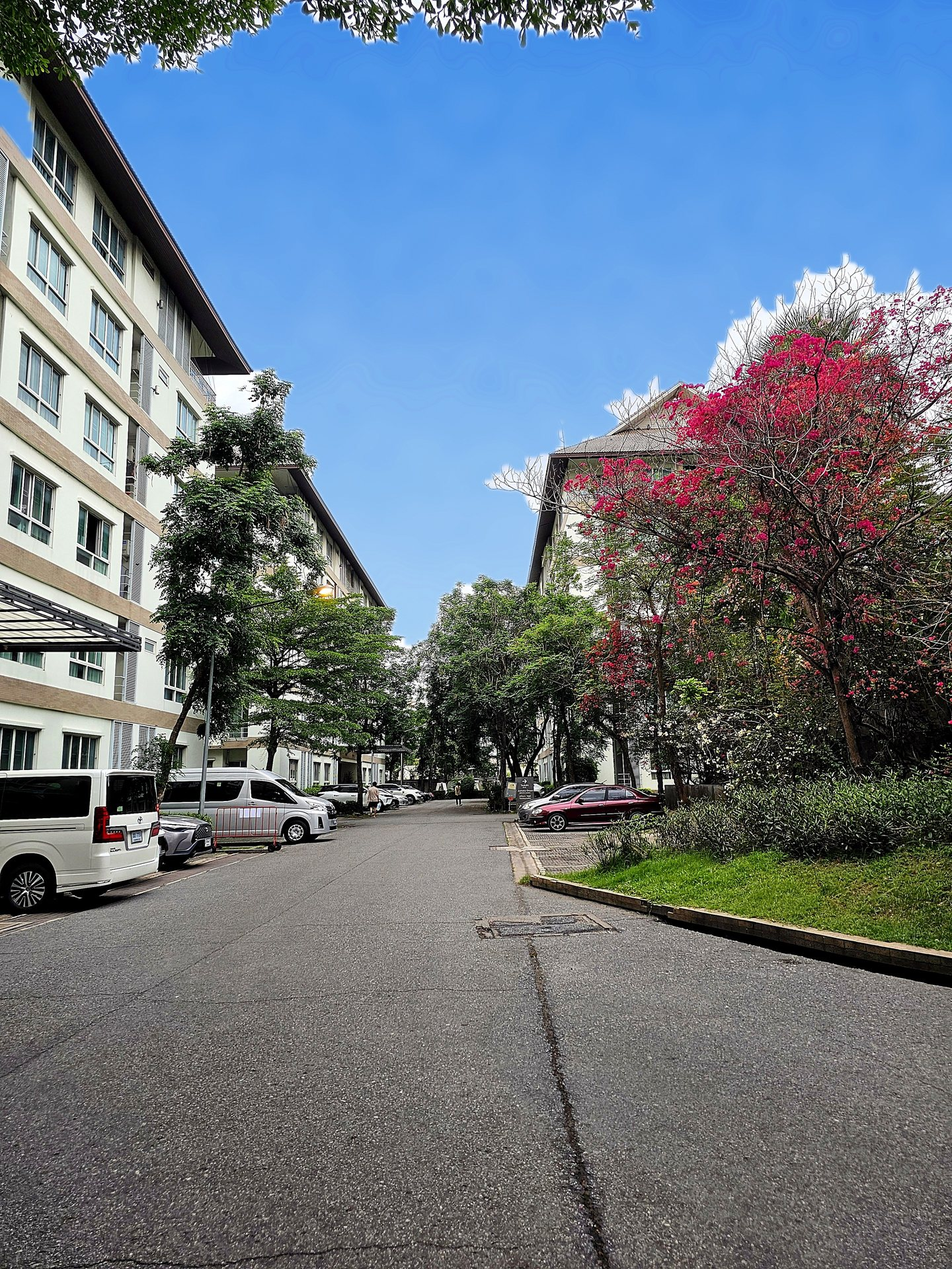
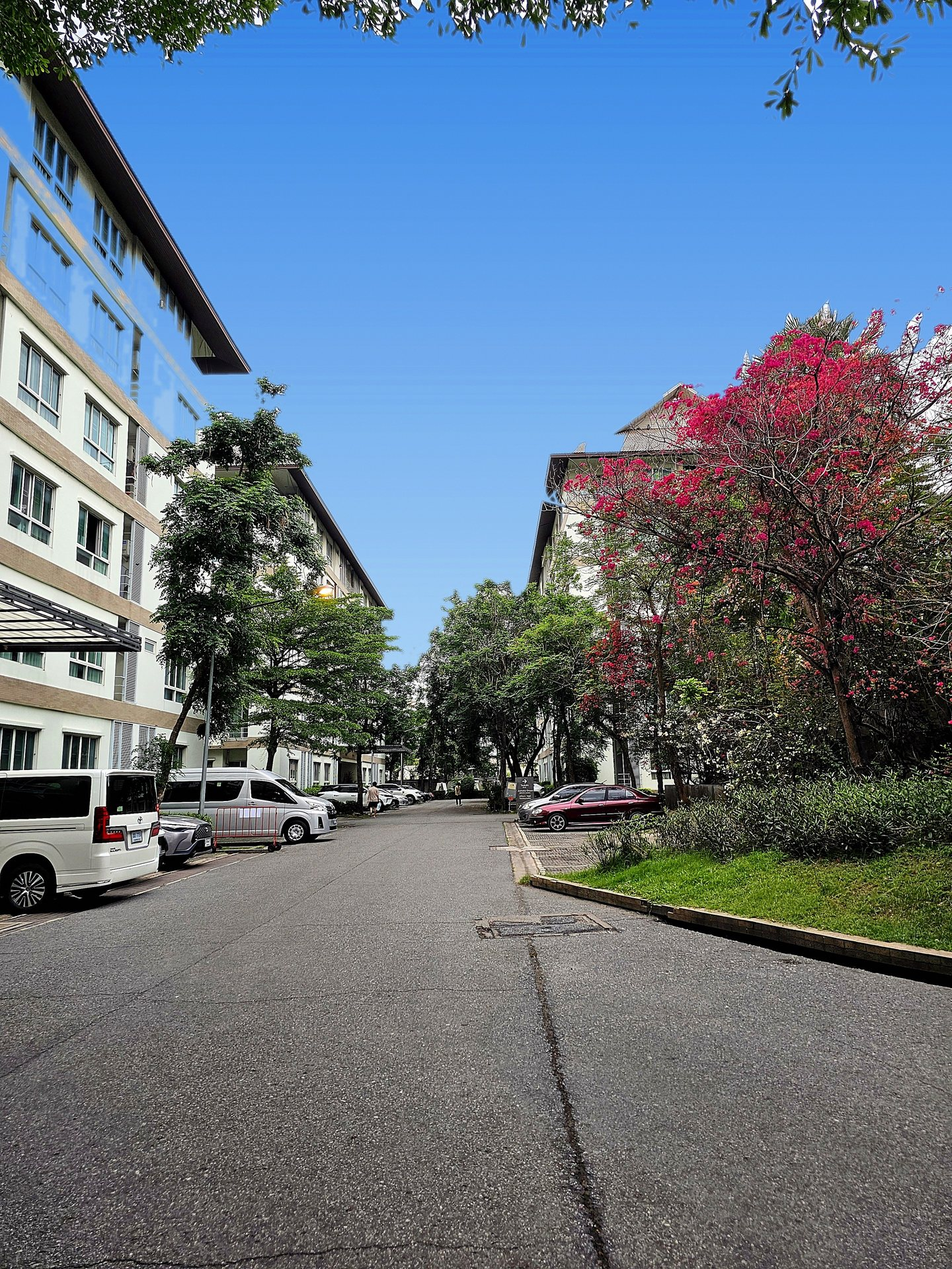
Lobby sky: dissolve the white fringe around trees for a real clear sky
The previous pass left a bright overcast rim glowing around the leaves and
twigs in the two tree exteriors — the tell-tale "fake sky" edge. Rework the
masking in enhance_sky.py to a continuous, luminance-based sky alpha:

  * a clean texture-gated CORE finds confident open sky (bright, washed-out,
    not-warm, not-green, smooth), keeping top-connected, high-in-frame and any
    large blob (so lower sky pockets aren't missed);
  * a connected EXTENSION crawls out from the core only through pixels that are
    plausibly sky, so canopy gaps reached through thin sky channels fill in
    while enclosed regions never do;
  * each edge pixel gets a soft skyness from how bright / desaturated / neutral
    / not-green it is, so a white halo turns fully blue, a half-leaf edge blends
    and a dark branch stays — the fringe dissolves and trees blend naturally;
  * drop the cloud veil (it quantised into contour lines) for a clean gradient,
    and dither before JPEG so the smooth blue never bands.

Scope the script to the two tree shots (20260607_174349, _174418) and re-run +
re-optimise them (1920px progressive JPEG). 20260609_175332 is a building
close-up whose glass mirrors the sky — any sky fill paints the windows — so it
keeps the earlier conservative pass's clean result and is left untouched.

diff --git a/enhance_sky.py b/enhance_sky.py
@@ -2,32 +2,34 @@
 Sky beautifier for selected Main Lobby photos.
 
 Turns the flat, overcast white-grey sky into a clean, clear blue gradient
-while leaving buildings, trees and foreground untouched.
+while leaving buildings, trees and foreground looking real.
 
-How the sky is found (so we don't paint over cream walls or green leaves):
-  * bright            -> V (max channel) high
-  * washed out        -> low saturation
-  * not strongly warm -> blue >= red - eps  (drops obviously warm cream walls)
-  * not green         -> green is not clearly the dominant channel (drop foliage)
-  * smooth            -> low local texture. THE key building guard: windows,
-                         balconies, louvers and railings are busy; overcast sky
-                         is almost flat. Flat warm walls are already dropped by
-                         the warmth test, so smoothness mops up the rest.
-  * spatially sky     -> keep candidate blobs that touch the top OR sit high in
-                         the frame, then fill holes enclosed by sky (so pale
-                         patches and canopy gaps inside the sky are not missed).
-The warmth test is kept *loose* on purpose: an overcast sky shades from bright
-near the zenith to a greyer, faintly warm haze near the rooftops, and a tight
-test would slice it in two and leave a hard seam. Texture + greenness carry the
-building/tree rejection instead.
+The hard part is the edge: where bare branches and lacy leaves sit against the
+sky, the original photo has a bright overcast rim around every twig. A plain
+binary "sky / not sky" mask leaves that rim glowing white next to the new blue
+— the dead giveaway of a faked sky. So instead of a hard mask we build a
+*continuous* sky alpha:
 
-The mask is feathered, then a vertical blue gradient is alpha-composited in.
-A whisper of soft cloud breakup and a mild global vibrance lift sell the
-"sunny day" look.
+  1. Find a clean sky CORE — bright, washed-out, not-warm, not-green AND smooth
+     (low local texture). Smoothness keeps busy building surfaces (windows,
+     louvers, balconies) out of the core. Keep the blobs that touch the top or
+     sit high in the frame, fill interior holes. This is solid, confident sky.
 
-Originals live in git history. During development this reads the pristine
-originals from SRC_DIR (extracted from git) and writes to DST_DIR, so the
-script is idempotent. With SRC_DIR missing it edits DST_DIR in place.
+  2. Around that core, define a sky ZONE (a generous dilation). Only inside the
+     zone do we judge edges, so a white van or pavement elsewhere is never
+     touched.
+
+  3. Inside the zone, every pixel gets a soft skyness in 0..1 from how bright,
+     how desaturated, how neutral (not warm) and how not-green it is. A white
+     halo between branches scores ~1 and turns fully blue; a half-leaf edge
+     scores ~0.4 and blends; a dark branch or green leaf scores ~0 and is kept.
+     This dissolves the white fringe and lets trees/buildings blend naturally.
+
+The resulting alpha composites a vertical blue gradient (faint cloud breakup),
+then a mild vibrance lift sells the sunny day.
+
+Originals live in git history; during development this reads them from SRC_DIR
+and writes to DST_DIR, so it is idempotent.
 """
 import os
 import numpy as np
@@ -37,125 +39,148 @@ from PIL import Image, ImageOps
 SRC_DIR = "_orig_lobby"
 DST_DIR = "images/Main Lobby"
 
+# Both targets here are trees against open sky: the connected extension crawls
+# along sky-coloured pixels through the canopy to dissolve the white leaf fringe.
+#
+# The third lobby exterior, 20260609_175332.jpg, is deliberately NOT processed
+# here. It is a low-angle building close-up whose glass *mirrors* the sky, so any
+# sky fill crawls across the reflections and paints the windows blue, and it has
+# no tree-against-sky fringe to fix anyway. Its clean version was produced by the
+# earlier conservative pass and is kept as-is in the repo.
 FILES = [
     "20260607_174349.jpg",
     "20260607_174418.jpg",
-    "20260609_175332.jpg",
 ]
 
-# Sky-detection thresholds
-V_MIN = 0.60        # min brightness (0..1) for a sky candidate
-S_MAX = 0.28        # max saturation (0..1)
-WARM_EPS = 0.05     # allow (b - r) >= -WARM_EPS; clearly warm cream falls below
-GREEN_EPS = 0.012   # drop pixels where green clearly dominates (foliage)
-STD_MAX = 0.055     # max local luminance std (0..1); above this is "textured"
-TOP_BAND = 0.06     # rows within this top fraction always seed the sky
-HIGH_BAND = 0.55    # candidate blobs sitting above this fraction are kept too
-MIN_BLOB = 0.0008   # drop sky blobs smaller than this fraction of the frame
-RECOVER_PX = 14     # radius to recover textured canopy sky next to clean sky
-DILATE_PX = 1       # grow the mask a hair so blue eats the white edge halos
+# --- clean sky CORE (confident sky only) ---
+V_MIN = 0.62        # min brightness for a core candidate
+S_MAX = 0.24        # max saturation for a core candidate
+WARM_CORE = 0.04    # core must have (b - r) >= -WARM_CORE
+GREEN_EPS = 0.012   # drop core pixels where green clearly dominates
+STD_MAX = 0.055     # max local luminance std for the core (drops textured walls)
+TOP_BAND = 0.06     # rows within this top fraction seed the core
+HIGH_BAND = 0.55    # core blobs sitting above this fraction are kept too
+MIN_BLOB = 0.0008   # drop core blobs smaller than this fraction of the frame
+BIG_BLOB = 0.006    # keep any sky blob this big wherever it sits (lower pockets)
+
+# --- continuous edge skyness (connected to the core) ---
+PASS_T = 0.22       # min skyness for a pixel to bridge the canopy back to sky
+V_LO, V_HI = 0.52, 0.80     # brightness ramp (0..1 skyness)
+S_LO, S_HI = 0.10, 0.32     # saturation ramp (full sky <=S_LO, none >=S_HI)
+WARM_LO, WARM_HI = 0.13, 0.03   # warmth ramp on (r - b): neutral keeps, warm drops
+GREEN_LO, GREEN_HI = 0.00, 0.06  # green-dominance ramp: neutral keeps, green drops
+EDGE_GROW_PX = 3    # grow sky alpha this far into edges to swallow pale rims
 
 # Clear-sky gradient (RGB). Top = vivid but natural; horizon = pale.
 TOP_COLOR = np.array([70, 140, 226], dtype=np.float32)
 HORIZON_COLOR = np.array([198, 227, 245], dtype=np.float32)
-GRADIENT_SPAN = 0.66  # fraction of height over which top->horizon plays out
+GRADIENT_SPAN = 0.66
+
+
+def _smoothstep(x, lo, hi):
+    """Hermite ramp: 0 at lo, 1 at hi (works for lo>hi too)."""
+    t = np.clip((x - lo) / (hi - lo + 1e-9), 0.0, 1.0)
+    return t * t * (3 - 2 * t)
 
 
 def _fill_interior_holes(mask_u8):
-    """Fill holes fully enclosed by the mask (flood-fill from the border)."""
+    """Fill background (0) regions fully enclosed by the mask (1). Background
+    that touches the image border stays open; only truly enclosed holes fill.
+    Seeds from a 1px background ring so it is correct no matter what sits in the
+    corners (e.g. a tree at (0,0))."""
     h, w = mask_u8.shape
-    inv = (mask_u8 == 0).astype(np.uint8)
-    ff = inv.copy()
-    cv2.floodFill(ff, np.zeros((h + 2, w + 2), np.uint8), (0, 0), 0)
-    # `ff` now marks background NOT reachable from the corner == enclosed holes.
-    holes = (inv == 1) & (ff == 1)
+    bg = (mask_u8 == 0).astype(np.uint8)
+    pad = np.ones((h + 2, w + 2), np.uint8)     # ring of background around the frame
+    pad[1:-1, 1:-1] = bg
+    ff = pad.copy()
+    cv2.floodFill(ff, np.zeros((h + 4, w + 4), np.uint8), (0, 0), 0)
+    enclosed = ((pad == 1) & (ff == 1))[1:-1, 1:-1]   # background unreachable from the ring
     out = mask_u8.copy()
-    out[holes] = 1
+    out[enclosed] = 1
     return out
 
 
-def sky_mask(rgb):
-    """Return a feathered 0..1 sky mask for an HxWx3 float (0..1) RGB image."""
+def sky_alpha(rgb, extend=True):
+    """Return a continuous 0..1 sky alpha for an HxWx3 float (0..1) RGB image.
+    When extend is False only the texture-gated core is coloured (no crawling
+    through the canopy), for building close-ups whose glass mirrors the sky."""
     h, w, _ = rgb.shape
     r, g, b = rgb[..., 0], rgb[..., 1], rgb[..., 2]
     v = rgb.max(axis=2)
     mn = rgb.min(axis=2)
     sat = np.where(v > 1e-6, (v - mn) / np.maximum(v, 1e-6), 0.0)
+    gdom = g - np.maximum(r, b)         # green dominance (foliage)
+    warm = r - b                         # warmth (cream walls > 0)
 
-    # Local luminance texture (std over a small window) -> building rejector.
+    # ---- 1. clean sky CORE ----
     lum = (0.299 * r + 0.587 * g + 0.114 * b).astype(np.float32)
-    win = max(5, (int(w / 120) | 1))            # odd window, scales with width
+    win = max(5, (int(w / 120) | 1))
     mean = cv2.blur(lum, (win, win))
     sq = cv2.blur(lum * lum, (win, win))
     std = np.sqrt(np.maximum(sq - mean * mean, 0.0))
 
-    not_warm = (b - r) >= -WARM_EPS
-    not_green = ~((g >= r + GREEN_EPS) & (g >= b + GREEN_EPS))
-    smooth = std <= STD_MAX
-    # Colour-only sky test (texture ignored). Buildings are kept out of the
-    # *seed* by the smoothness gate below; this looser test is reused later to
-    # recover sky peeking through the lacy canopy near real sky.
-    color_ok = (v >= V_MIN) & (sat <= S_MAX) & not_warm & not_green
-    candidate = color_ok & smooth
-    cand_u8 = candidate.astype(np.uint8)
-    color_u8 = color_ok.astype(np.uint8)
+    core_cand = ((v >= V_MIN) & (sat <= S_MAX) & (warm <= WARM_CORE) &
+                 (gdom <= GREEN_EPS) & (std <= STD_MAX)).astype(np.uint8)
 
-    # Keep candidate components that touch the top band OR live high in frame.
-    num, labels = cv2.connectedComponents(cand_u8, connectivity=8)
+    num, labels, stats, _ = cv2.connectedComponentsWithStats(core_cand, connectivity=8)
     band = max(1, int(h * TOP_BAND))
-    keep = set(np.unique(labels[:band, :])) - {0}
-
-    rows = np.arange(h)[:, None]
-    high = labels[rows.repeat(w, 1) <= int(h * HIGH_BAND)]
-    keep |= set(np.unique(high)) - {0}
-
+    top_labels = set(np.unique(labels[:band, :])) - {0}
+    high_labels = set(np.unique(labels[: int(h * HIGH_BAND) + 1, :])) - {0}
     min_area = MIN_BLOB * h * w
-    sel = np.zeros_like(cand_u8)
-    for lab in keep:
-        comp = labels == lab
-        if comp.sum() >= min_area:
-            sel[comp] = 1
+    big_area = BIG_BLOB * h * w
+    core = np.zeros_like(core_cand)
+    for lab in range(1, num):
+        area = stats[lab, cv2.CC_STAT_AREA]
+        if area < min_area:
+            continue
+        # sky if it reaches the top, lives high in the frame, or is simply a
+        # large open patch (catches lower sky pockets walled off by foreground).
+        if lab in top_labels or lab in high_labels or area >= big_area:
+            core[labels == lab] = 1
+    core = _fill_interior_holes(core)
 
-    sel = _fill_interior_holes(sel)
+    # ---- 2. continuous skyness (colour only, texture ignored) ----
+    bright = _smoothstep(v, V_LO, V_HI)
+    desat = _smoothstep(sat, S_HI, S_LO)            # 1 when very desaturated
+    neutral = _smoothstep(warm, WARM_LO, WARM_HI)   # 1 when neutral/cool
+    notgreen = _smoothstep(gdom, GREEN_HI, GREEN_LO)
+    skyness = bright * desat * neutral * notgreen
 
-    # Recovery pass: near the clean smooth-sky core, accept colour-only sky even
-    # where it is "textured" (the bright overcast slivers between lacy canopy
-    # leaves, and the leftover white rim around them). Bounded to RECOVER_PX of
-    # real sky so it never crawls into a building interior.
-    if RECOVER_PX > 0:
-        r2 = 2 * RECOVER_PX + 1
-        neigh = cv2.dilate(sel, np.ones((r2, r2), np.uint8))
-        sel = sel | (neigh & color_u8)
-        sel = _fill_interior_holes(sel)
+    # ---- 3. keep only skyness that is CONNECTED to the open-sky core ----
+    # A pixel counts as sky-edge only if a chain of plausibly-sky pixels links
+    # it back to the core. Canopy gaps reach the sky through thin sky channels;
+    # a building's glass reflections are walled off by frames and the roofline,
+    # so they never connect and stay untouched (no blue windows / fake clouds).
+    if extend:
+        passable = ((skyness > PASS_T).astype(np.uint8) | core)
+        num, lbl = cv2.connectedComponents(passable, connectivity=8)
+        keep = set(np.unique(lbl[core == 1])) - {0}
+        grown = np.isin(lbl, list(keep)) if keep else np.zeros_like(core, bool)
+    else:
+        grown = core.astype(bool)
 
-    mask = sel.astype(np.float32)
-    # Clean speckle, then feather the edge so trees/branches blend softly.
-    mask = cv2.morphologyEx(mask, cv2.MORPH_OPEN, np.ones((3, 3), np.uint8))
-    mask = cv2.morphologyEx(mask, cv2.MORPH_CLOSE, np.ones((7, 7), np.uint8))
-    if DILATE_PX > 0:
-        # Push the edge out a touch so the leftover bright overcast rim around
-        # leaves/rooflines gets coloured instead of glowing white next to blue.
-        k = 2 * DILATE_PX + 1
-        mask = cv2.dilate(mask, np.ones((k, k), np.uint8))
-    mask = cv2.GaussianBlur(mask, (0, 0), sigmaX=max(1.5, w / 600.0))
-    return np.clip(mask, 0.0, 1.0)
+    alpha = np.maximum(core.astype(np.float32), grown.astype(np.float32) * skyness)
+
+    # Grow the sky a few pixels into the edges so the thin pale overcast rim
+    # that anti-aliasing leaves around leaves/twigs/rooflines gets swallowed by
+    # blue instead of glowing. Twigs only lose a hair of width.
+    if EDGE_GROW_PX > 0:
+        k = 2 * EDGE_GROW_PX + 1
+        alpha = cv2.dilate(alpha, cv2.getStructuringElement(cv2.MORPH_ELLIPSE, (k, k)))
+
+    # Feather just enough to avoid a hard line; the continuous term already
+    # carries most of the blending.
+    alpha = cv2.GaussianBlur(alpha, (0, 0), sigmaX=max(1.0, w / 900.0))
+    return np.clip(alpha, 0.0, 1.0)
 
 
 def gradient_sky(h, w):
-    """Vertical clear-blue gradient with a faint cloud breakup."""
+    """Clean vertical clear-blue gradient — vivid at the top, pale at the
+    horizon. No cloud veil: a real clear sky is smooth, and the faint veil was
+    quantising into visible contour lines after JPEG."""
     rows = np.clip(np.arange(h) / (GRADIENT_SPAN * h), 0.0, 1.0)[:, None, None]
     grad = TOP_COLOR[None, None, :] * (1 - rows) + HORIZON_COLOR[None, None, :] * rows
-    grad = np.repeat(grad, w, axis=1).astype(np.float32)
-
-    # Soft, low-contrast clouds: blurred low-frequency noise, screened in gently.
-    rng = np.random.default_rng(7)
-    noise = rng.random((max(2, h // 40), max(2, w // 40))).astype(np.float32)
-    noise = cv2.resize(noise, (w, h), interpolation=cv2.INTER_CUBIC)
-    noise = cv2.GaussianBlur(noise, (0, 0), sigmaX=w / 90.0)
-    noise = (noise - noise.min()) / (np.ptp(noise) + 1e-6)
-    veil = (0.10 * noise)[..., None]            # up to ~10% lift
-    grad = grad + veil * (255.0 - grad)         # screen-ish toward white
-    return np.clip(grad, 0, 255)
+    return np.repeat(grad, w, axis=1).astype(np.float32)
 
 
 def vibrance(rgb_u8, sat_mul=1.08, contrast=1.05):
@@ -167,24 +192,23 @@ def vibrance(rgb_u8, sat_mul=1.08, contrast=1.05):
     return out.astype(np.uint8)
 
 
-def process(src, dst):
+def process(src, dst, extend=True):
     img = ImageOps.exif_transpose(Image.open(src)).convert("RGB")
     arr = np.asarray(img).astype(np.float32)
     h, w, _ = arr.shape
     rgb01 = arr / 255.0
 
-    mask = sky_mask(rgb01)[..., None]
+    alpha = sky_alpha(rgb01, extend=extend)[..., None]
     grad = gradient_sky(h, w)
 
-    out = arr * (1 - mask) + grad * mask
+    out = arr * (1 - alpha) + grad * alpha
     out = np.clip(out, 0, 255).astype(np.uint8)
     out = vibrance(out)
 
-    # Tiny dither to kill any gradient banding after JPEG.
-    out = np.clip(out.astype(np.float32) + np.random.default_rng(3).normal(0, 1.0, out.shape), 0, 255).astype(np.uint8)
-
+    # Dither before JPEG so the smooth blue gradient never bands into contours.
+    out = np.clip(out.astype(np.float32) + np.random.default_rng(3).normal(0, 1.8, out.shape), 0, 255).astype(np.uint8)
     Image.fromarray(out).save(dst, "JPEG", quality=92, optimize=True)
-    print(f"  {dst}  sky ~{float(mask.mean())*100:4.1f}% of frame")
+    print(f"  {dst}  sky ~{float(alpha.mean())*100:4.1f}% of frame")
 
 
 if __name__ == "__main__":
